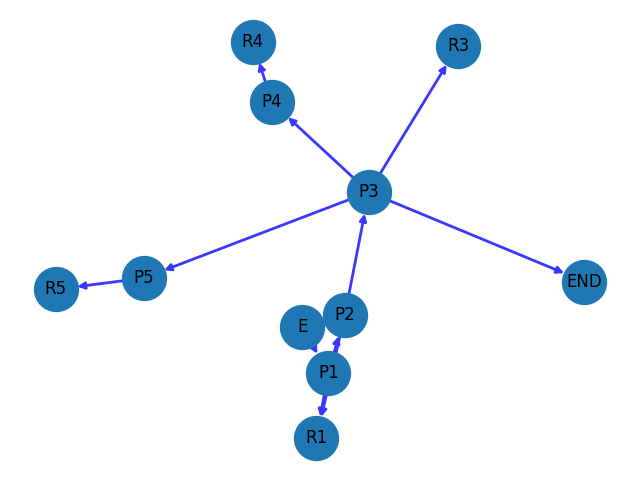
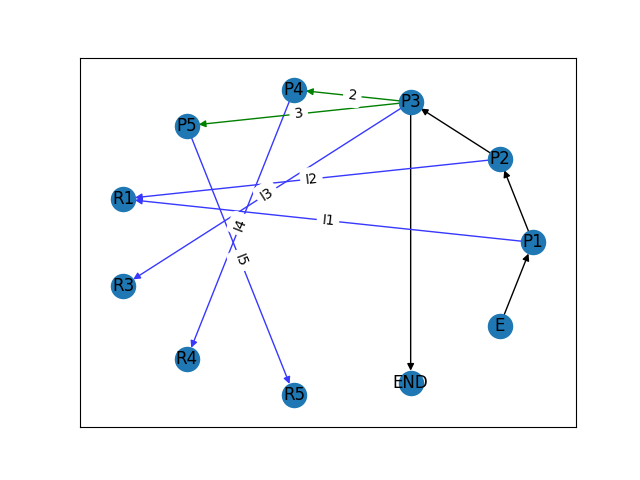
Beatuified network

diff --git a/c/NetworkGenerator.py b/c/NetworkGenerator.py
@@ -7,17 +7,37 @@ class NetworkGenerator:
         self.graph = nx.DiGraph()
         self.NODE_COLOR = '#1f78b4'
         self.ITEM_COLOR = '#3838ff'
+        self.ALT_COLOR = 'green'
+        self.poll_edges = []
+        self.item_edges = []
+        self.alt_edges = []
+        self.labels = {}
 
     def add_node(self, node):
         self.graph.add_node(str(node))
 
-    def add_edge(self, a, b):
+    def add_item_edge(self, a, b, label):
+        self.item_edges.append((a, b))
+        self.graph.add_edge(str(a), str(b))
+        self.labels[(a, b)] = label
 
+    def add_alt_edge(self, a, b, label):
+        self.alt_edges.append((a, b))
+        self.graph.add_edge(str(a), str(b))
+        self.labels[(a, b)] = label
+
+    def add_poll_edge(self, a, b):
+        self.poll_edges.append((a, b))
         self.graph.add_edge(str(a), str(b))
 
     def draw(self):
 
         # specifiy edge labels explicitly
-        pos = nx.spring_layout(self.graph, k=0.5, iterations=50)
-        nx.draw_networkx_nodes(self.graph, pos=pos)
+        pos = nx.circular_layout(self.graph)
+        nx.draw_networkx_nodes(self.graph, pos=pos, node_color=self.NODE_COLOR)
+        nx.draw_networkx_labels(self.graph, pos=pos)
+        nx.draw_networkx_edges(self.graph, pos=pos, edgelist=self.poll_edges)
+        nx.draw_networkx_edges(self.graph, pos=pos, edgelist=self.item_edges, edge_color=self.ITEM_COLOR)
+        nx.draw_networkx_edges(self.graph, pos=pos, edgelist=self.alt_edges, edge_color=self.ALT_COLOR)
+        nx.draw_networkx_edge_labels(self.graph, pos=pos, edge_labels=self.labels)
         plt.savefig("path.png")

diff --git a/c/Compiler.py b/c/Compiler.py
@@ -48,14 +48,14 @@ class Compiler:
             for id in items_ids:
                 items.append(visitor.item_pairs[id])
 
-            self.generator.add_edge(poll_id, items[0][0])
+            self.generator.add_poll_edge(str(poll_id), items[0][0])
             for i in range(1, len(items)):
-                self.generator.add_edge(items[i - 1][0], items[i][0])
-            self.generator.add_edge(items[-1][0], 'END')
+                self.generator.add_poll_edge(items[i - 1][0], items[i][0])
+            self.generator.add_poll_edge(items[-1][0], 'END')
 
         # add item edges
         for pair in visitor.item_pairs.items():
-            self.generator.add_edge(pair[1][0], pair[1][1])
+            self.generator.add_item_edge(pair[1][0], pair[1][1], pair[0])
 
         print(visitor.item_pairs)
 
@@ -64,7 +64,7 @@ class Compiler:
             questionId = visitor.item_pairs[alt[0]][0]
             print(alt)
             for a in alt[1]:
-                self.generator.add_edge(questionId, visitor.item_pairs[a[1]][0])
+                self.generator.add_alt_edge(questionId, visitor.item_pairs[a[1]][0], a[0])
 
 
         self.generator.draw()
